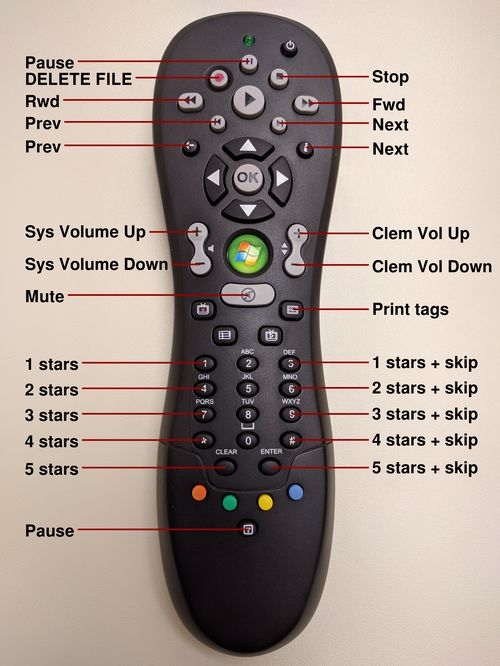
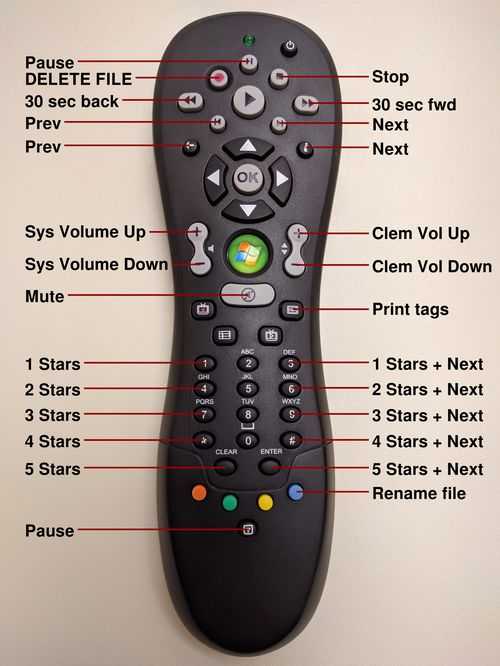
initial work

diff --git a/assets/label-buttons.py b/assets/label-buttons.py
@@ -11,9 +11,9 @@ LABEL_LIST = [
   ('Pause', 'Pause', (1508, 370)),
   ('Rec', 'DELETE FILE', (1326, 469)),
   ('Stop', 'Stop', (1692, 464)),
-  ('Rwd', 'Rwd', (1152, 604)),
+  ('Rwd', '30 sec back', (1152, 604)),
   ('Play', None, (1508, 603)),
-  ('Fwd', 'Fwd', (1867, 624)),
+  ('Fwd', '30 sec fwd', (1867, 624)),
   ('Prev', 'Prev', (1316, 737)),
   ('Next', 'Next', (1694, 745)),
   ('Exit', 'Prev', (1146, 879)),
@@ -33,23 +33,23 @@ LABEL_LIST = [
   ('DVD', "Print tags", (1771, 1872)),
   ('EPG', None, (1360, 2025)),
   ('Tuner', None, (1644, 2029)),
-  ('1', '1 stars', (1242, 2195)),
+  ('1', '1 Stars', (1242, 2195)),
   ('2', None, (1504, 2197)),
-  ('3', '1 stars + skip', (1758, 2194)),
-  ('4', '2 stars', (1237, 2350)),
+  ('3', '1 Stars + Next', (1758, 2194)),
+  ('4', '2 Stars', (1237, 2350)),
   ('5', None, (1504, 2350)),
-  ('6', '2 stars + skip', (1766, 2348)),
-  ('7', '3 stars', (1237, 2504)),
+  ('6', '2 Stars + Next', (1766, 2348)),
+  ('7', '3 Stars', (1237, 2504)),
   ('8', None, (1503, 2504)),
-  ('9', '3 stars + skip', (1763, 2506)),
-  ('*', '4 stars', (1231, 2663)),
+  ('9', '3 Stars + Next', (1763, 2506)),
+  ('*', '4 Stars', (1231, 2663)),
   ('0', None, (1506, 2664)),
-  ('#', '4 stars + skip', (1771, 2663)),
-  ('Clear', '5 stars', (1364, 2830)),
-  ('Enter', '5 stars + skip', (1637, 2831)),
+  ('#', '4 Stars + Next', (1771, 2663)),
+  ('Clear', '5 Stars', (1364, 2830)),
+  ('Enter', '5 Stars + Next', (1637, 2831)),
   ('Red', None, (1202, 2982)),
   ('Green', None, (1394, 3041)),
-  ('Blue', 'Tag filename to delete', (1794, 2977)),
+  ('Blue', 'Rename file', (1794, 2977)),
   ('Yellow', None, (1607, 3037)),
   ('Subtitle', 'Pause', (1503, 3204)),
 ]

diff --git a/assets/label-rec.py b/assets/label-rec.py
@@ -5,10 +5,9 @@ from PIL import Image, ImageTk
 
 FILE_NAME = "remote.jpg"
 
-if __name__ == "__main__":
-  root = Tk()
 
-  # setting up a tkinter canvas with scrollbars
+def main():
+  root = Tk()
   frame = Frame(root, bd=2, relief=SUNKEN)
   frame.grid_rowconfigure(0, weight=1)
   frame.grid_columnconfigure(0, weight=1)
@@ -16,26 +15,25 @@ if __name__ == "__main__":
   xscroll.grid(row=1, column=0, sticky=E + W)
   yscroll = Scrollbar(frame)
   yscroll.grid(row=0, column=1, sticky=N + S)
-  canvas = Canvas(frame, bd=0, xscrollcommand=xscroll.set,
-                  yscrollcommand=yscroll.set)
+
+  canvas = Canvas(
+    frame, bd=0, xscrollcommand=xscroll.set, yscrollcommand=yscroll.set
+  )
   canvas.grid(row=0, column=0, sticky=N + S + E + W)
   xscroll.config(command=canvas.xview)
   yscroll.config(command=canvas.yview)
   frame.pack(fill=BOTH, expand=1)
 
-  # adding the image
   img = ImageTk.PhotoImage(Image.open(FILE_NAME))
   canvas.create_image(0, 0, image=img, anchor="nw")
   canvas.config(scrollregion=canvas.bbox(ALL))
 
-
-  # function to be called when mouse is clicked
-  def printcoords(event):
-    # outputting x and y coords to console
-    print((event.x, event.y))
+  def print_coords(event):
     print((event.x, event.y))
 
-  # mouseclick event
-  canvas.bind("<Button 1>", printcoords)
-
+  canvas.bind("<Button 1>", print_coords)
   root.mainloop()
+
+
+if __name__ == "__main__":
+  main()

diff --git a/README.md b/README.md
@@ -8,6 +8,8 @@ The app controls Clementine via DBUS. File and tag operations are performed dire
 
 **Warning: The RECORD button immediately deletes the currently playing file from disk.**
 
+The blue button adds ".delete" to the filename of the currently playing file but does not delete the file.
+
 ### Usage
 
 * Find your remote control device with:
@@ -26,6 +28,12 @@ If there's interest, I'll provide instructions for how to run the app as a servi
 * Allow the app to trigger refresh in Clementine to show changes:
 
     `Clementine > Preferences > Music Library > Monitor library for changes > Enable`
+
+### Troubleshooting
+
+* This app does not need LIRC, and LIRC may interfere if installed. Try:
+
+    `$ apt remove lirc`
 
 ### Build on Linux
 
